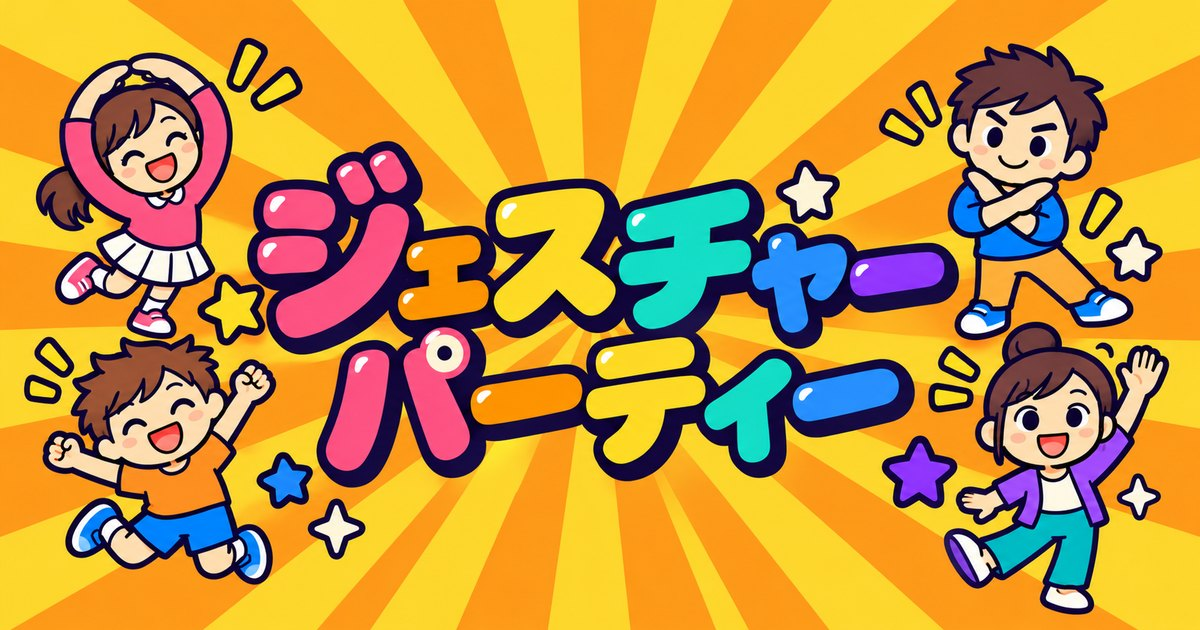
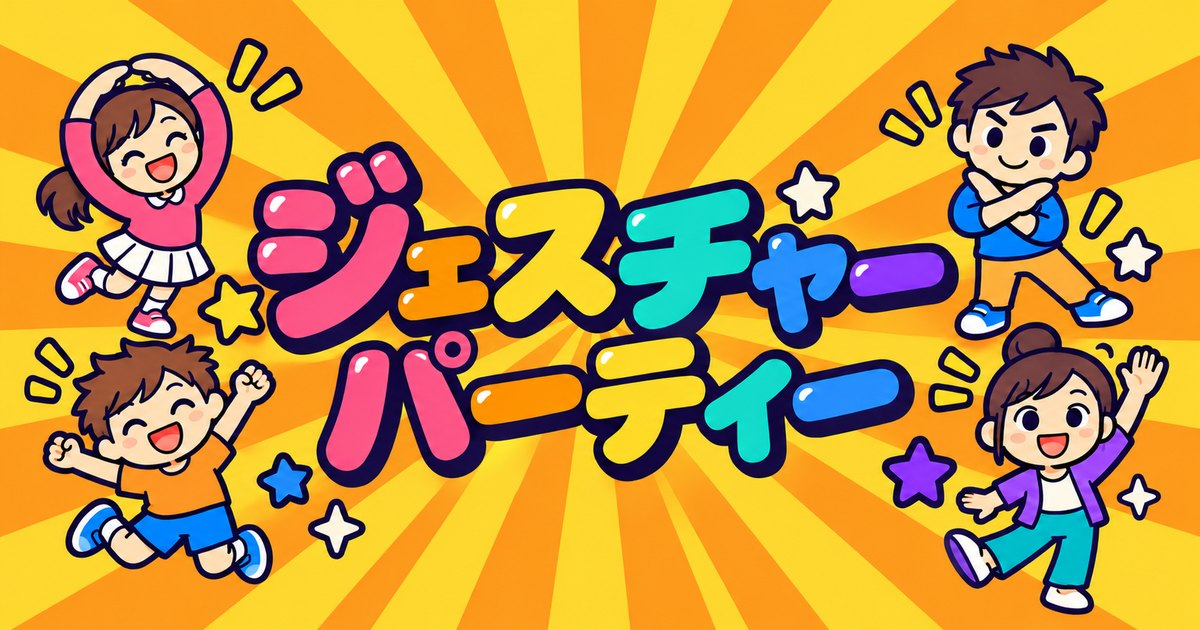
オープニングと共有画像を新しいバナー画像に差し替え
Claude-Session: https://claude.ai/code/session_01BDm6yNMDLs3M39MpUWuB98

diff --git a/index.html b/index.html
@@ -15,11 +15,11 @@
 <meta property="og:title" content="ジェスチャーパーティー">
 <meta property="og:description" content="体だけで伝えて、みんなで当てよう！みんなのスマホで遊べるジェスチャーゲーム">
 <meta property="og:url" content="https://iamochiai-collab.github.io/GESTURE-GAME/">
-<meta property="og:image" content="https://iamochiai-collab.github.io/GESTURE-GAME/img/ogp.jpg">
+<meta property="og:image" content="https://iamochiai-collab.github.io/GESTURE-GAME/img/ogp.jpg?v=2">
 <meta property="og:image:width" content="1200">
 <meta property="og:image:height" content="630">
 <meta name="twitter:card" content="summary_large_image">
-<link rel="preload" as="image" href="img/logo.png">
+<link rel="preload" as="image" href="img/banner.jpg">
 <link rel="preconnect" href="https://fonts.googleapis.com">
 <link rel="preconnect" href="https://fonts.gstatic.com" crossorigin>
 <link href="https://fonts.googleapis.com/css2?family=M+PLUS+Rounded+1c:wght@500;700;800&display=swap" rel="stylesheet">
@@ -29,7 +29,7 @@
 <div id="intro" class="intro" hidden role="button" tabindex="0" aria-label="ジェスチャーパーティー　タップしてはじめる">
   <div class="intro-rays"></div>
   <div class="intro-stage">
-    <div class="intro-logo"><img id="introLogoImg" src="img/logo.png" alt="ジェスチャーパーティー" width="1100" height="560"></div>
+    <div class="intro-logo"><img id="introLogoImg" class="intro-banner" src="img/banner.jpg" alt="ジェスチャーパーティー" width="1400" height="736"></div>
     <p class="intro-sub">体だけで伝えて、みんなで当てよう！</p>
   </div>
   <div class="intro-emojis" id="introEmojis"></div>

diff --git a/app.js b/app.js
@@ -985,13 +985,9 @@ function showIntro(){
   const el = document.getElementById('intro'); if (!el) return;
   const reduce = matchMedia('(prefers-reduced-motion: reduce)').matches;
   // ロゴのまわりに飛び出すキャラクター（画像, 位置x%, y%, 遅れms）
-  // 縦長画面：上・左右・下にちらす／横長画面：左右の列に並べる
+  // バナーに出ていない4人を、縦長画面のときだけ上下に置く（横長画面はバナーだけ）
   const wide = innerWidth > innerHeight;
-  const people = wide
-    ? [['maru',9,17,0],['batsu',91,17,110],['dance',8,50,220],['te',92,50,330],
-       ['kangaeru',9,83,440],['hakushu',91,83,550],['jump',25,86,660],['kashige',75,86,770]]
-    : [['maru',14,13,0],['batsu',50,9,110],['kashige',86,13,220],['dance',10,69,330],
-       ['te',90,69,440],['jump',50,77,550],['kangaeru',11,89,660],['hakushu',89,89,770]];
+  const people = wide ? [] : [['kashige',18,12,0],['dance',82,12,120],['kangaeru',16,76,240],['hakushu',84,76,360]];
   document.getElementById('introEmojis').innerHTML = people.map(([n, x, y, d]) =>
     `<img src="img/chara-${n}.png" alt="" style="left:${x}%;top:${y}%;--d:${d}ms">`).join('');
   el.hidden = false;

diff --git a/style.css b/style.css
@@ -315,6 +315,18 @@ body.intro-open{overflow:hidden}
   .intro-tap{bottom:4vh;padding:8px 20px;font-size:16px}
 }
 
+/* オープニングのバナー（1枚絵がドンと出る） */
+.intro-logo img.intro-banner{width:min(94vw,150vh,1100px);max-height:none;border:4px solid var(--ink);border-radius:22px;
+  box-shadow:0 8px 0 var(--ink),0 18px 40px rgba(43,33,64,.35);filter:none}
+.intro::after{content:"";position:absolute;inset:0;background:#fff;opacity:0;pointer-events:none;z-index:4}
+.intro.go::after{animation:flash .5s .72s ease-out}
+.intro.go .intro-stage{animation:thud .35s .72s ease-out}
+@keyframes flash{0%{opacity:.75}100%{opacity:0}}
+@keyframes thud{0%{transform:translateY(0)}30%{transform:translateY(7px)}60%{transform:translateY(-3px)}100%{transform:translateY(0)}}
+@media (orientation:landscape) and (max-height:520px){
+  .intro-logo img.intro-banner{width:auto;max-width:86vw;max-height:66vh;border-width:3px;border-radius:16px}
+}
+
 /* ---------- 画像ロゴ・キャラ（ホーム／結果） ---------- */
 .hero-logo{display:block;width:min(100%,460px);height:auto;margin:0 auto}
 .hero-logo.sm{width:min(80%,320px)}
